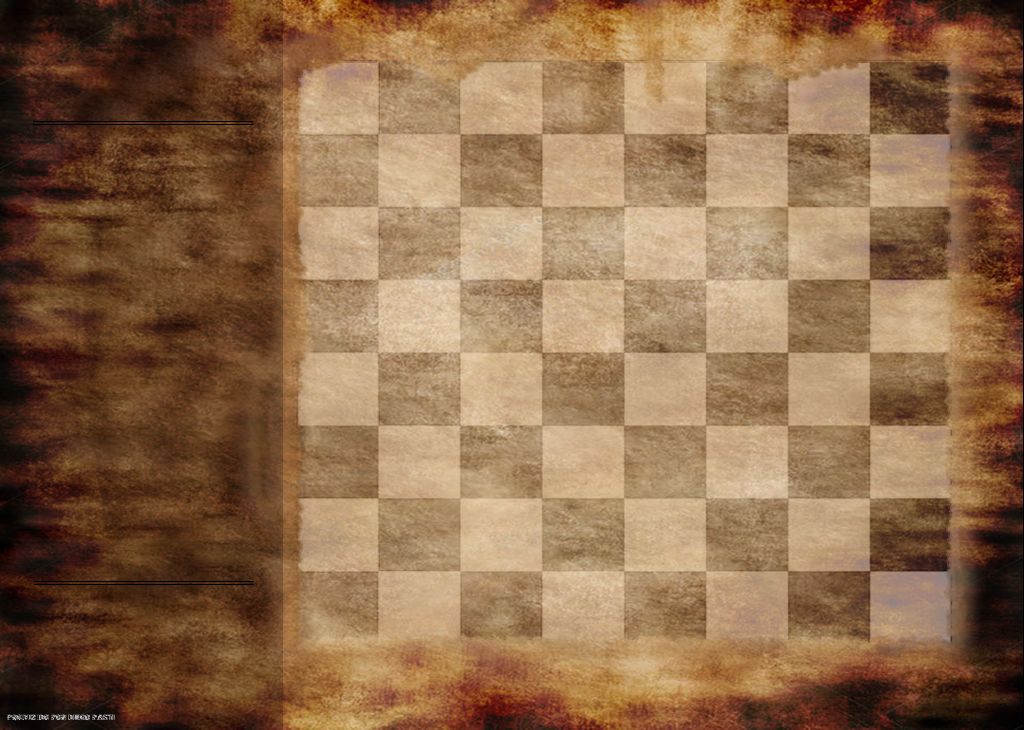
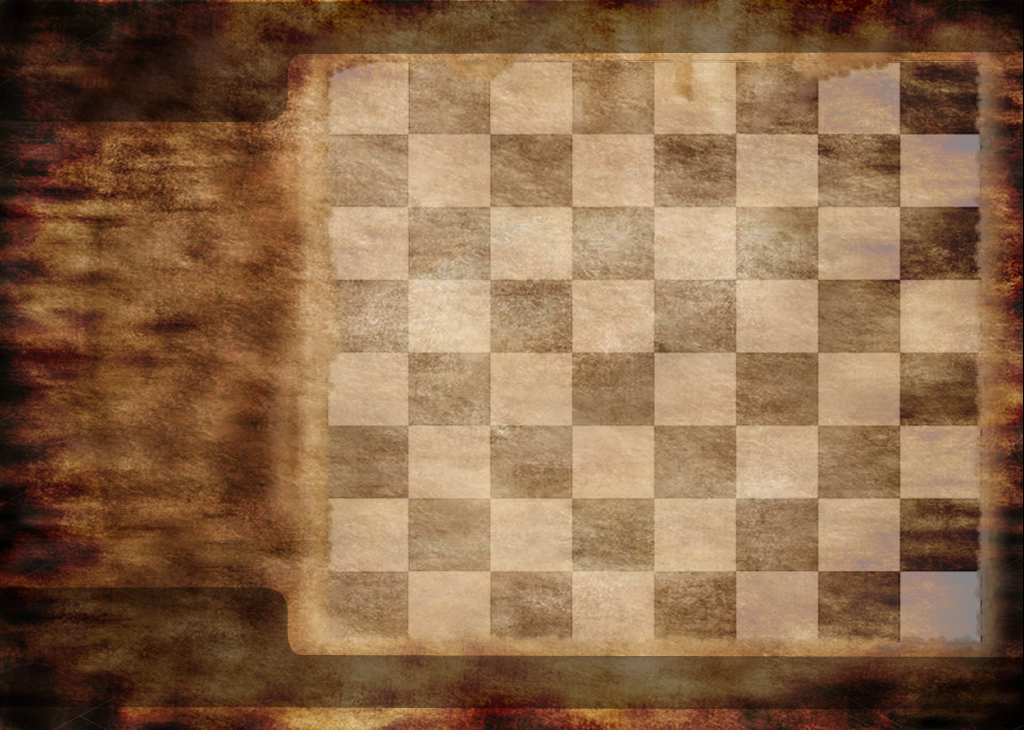
Conclui a parte do Chat, a estrutura do Menu e o painel do jogador.

diff --git a/Xadrez/src/br/ifes/poo/visao/interacao_humana/VisaoJogo.java b/Xadrez/src/br/ifes/poo/visao/interacao_humana/VisaoJogo.java
@@ -28,22 +28,15 @@ public class VisaoJogo extends JPanel{
 	
 	private JTextField textMensagem = null;
 	private JLabel labelMensagem = null;
-	private JLabel labelEsc = null;
-	private VisaoBotao botaoScrollUp=null;
-	private VisaoBotao botaoScrollDown=null;
-	
-	private VisaoBotao botaoVoltar = null;
-	private VisaoBotao botaoDesistir = null;
-	private VisaoBotao botaoEmpate = null;
 	
 	private VisaoTabuleiro visaoTabuleiro;
 	private VisaoChat visaoChat;
+	private VisaoMenuJogo menuJogo;
 	
 	public VisaoJogo(){	
 		KeyboardFocusManager manager = KeyboardFocusManager.getCurrentKeyboardFocusManager();
         manager.addKeyEventDispatcher(new ControleSinais());
 		this.construirTela();
-		this.adicionarComponentes();
 		System.out.println("INICIANDO A VISAO DO JOGO");
 	}
 	
@@ -51,8 +44,8 @@ public class VisaoJogo extends JPanel{
 	private void construirTela(){
 		this.setLayout(null);
 		this.construirBackground();
-		this.construirTabuleiro(296,62); // 70
-		this.construirMenu(680,20);
+		this.construirTabuleiro(326,62); // 70
+		this.construirMenu();
 		//this.construirPlacar();
 		this.construirChat();
 		this.construirCampoMensagem();
@@ -60,22 +53,12 @@ public class VisaoJogo extends JPanel{
 	}
 	
 	private void adicionarComponentes(){
-		this.add(visaoTabuleiro);
-		this.add(this.botaoEmpate);
-		this.add(this.botaoDesistir);
-		this.add(this.botaoVoltar);
-		this.add(this.visaoChat);
-		
-		this.add(this.textMensagem);
+		this.add(this.menuJogo);
+		this.add(visaoTabuleiro);		
+		this.add(this.visaoChat);		
+		this.add(this.textMensagem);		
 		this.add(this.labelMensagem);
-		this.add(this.labelEsc);
-		
-		this.add(this.botaoScrollUp);
-		this.add(this.botaoScrollDown);
-		
 		this.add(this.Background);
-		
-		
 		
 		
 	}
@@ -83,37 +66,26 @@ public class VisaoJogo extends JPanel{
 	private void construirCampoMensagem(){		
 		this.labelMensagem = new JLabel(new ImageIcon(getClass().getResource("/img/Componentes/enter.png")));
 		this.labelMensagem.setSize(280,25);
-		this.labelMensagem.setLocation(-216, 677);	
-		
-		this.labelEsc = new JLabel(new ImageIcon(getClass().getResource("/img/Componentes/esc.png")));
-		this.labelEsc.setSize(300,200);
-		this.labelEsc.setLocation(990, 255);		
+		this.labelMensagem.setLocation(-216, 555);	
 		
 		this.textMensagem = new JTextField();
-		this.textMensagem.setForeground(Color.white);
 		this.textMensagem.setSize(220, 25);
-		this.textMensagem.setLocation(4,677);
+		this.textMensagem.setLocation(4,555);
 		this.textMensagem.setBorder(null);
 		this.textMensagem.setOpaque(false);
 		
-		/*
-		this.botaoScrollDown = new VisaoBotao();
-		this.botaoScrollDown.setSize(40, 17);
-		this.botaoScrollDown.definirImagens("/img/Componentes/ArrowUp_Over.png", "/img/Componentes/ArrowUp_Pressed.png", "/img/Componentes/ArrowUp_Released.png");
-		this.botaoScrollDown.setLocation(130,565);
-		
-		this.botaoScrollUp = new VisaoBotao();
-		this.botaoScrollUp.setSize(40, 17);
-		this.botaoScrollUp.definirImagens("/img/Componentes/ArrowDown_Over.png", "/img/Componentes/ArrowDown_Pressed.png", "/img/Componentes/ArrowDown_Released.png");
-		this.botaoScrollUp.setLocation(130,120);
-		*/
 	}
 	
+	private void construirMenu(){
+		this.menuJogo = new VisaoMenuJogo();
+		this.menuJogo.setLocation(990, 255);	
+		this.menuJogo.setSize(300, 200);
+	}
 	
 	private void construirChat(){
 		this.visaoChat = new VisaoChat();
 		this.visaoChat.setLocation(7, 127);
-		this.visaoChat.setSize(276,445);
+		this.visaoChat.setSize(276,425);
 	}
 
 	private void construirBackground(){		
@@ -195,30 +167,10 @@ public class VisaoJogo extends JPanel{
 		this.visaoTabuleiro.inserirPeca(Peca, new Coordenada(linOrigem, colOrigem));		
 	}
 	
-	
-	private void construirMenu(int x, int y){
-		this.botaoEmpate = new VisaoBotao();
-		this.botaoEmpate.definirImagens("/img/Menu/Empate_Over.png", "/img/Menu/Empate_Pressed.png", "/img/Menu/Empate_Released.png");
-		this.botaoEmpate.setSize(100,30);
-		
-		this.botaoVoltar = new VisaoBotao();
-		this.botaoVoltar.definirImagens("/img/Menu/Voltar_Over.png", "/img/Menu/Voltar_Pressed.png", "/img/Menu/Voltar_Released.png");
-		this.botaoVoltar.setSize(90,30);
-		
-		this.botaoDesistir = new VisaoBotao();
-		this.botaoDesistir.definirImagens("/img/Menu/Desistir_Over.png", "/img/Menu/Desistir_Pressed.png", "/img/Menu/Desistir_Released.png");
-		this.botaoDesistir.setSize(100,30);
-		
-		
-		this.botaoEmpate.setLocation(x, y);
-		this.botaoDesistir.setLocation(x+100,y);
-		this.botaoVoltar.setLocation(x+200,y);		
-	}
-	
 	public VisaoBotao getBotao(int i) {
 		switch (i){
 			case 1:
-				return this.botaoVoltar;
+				return this.menuJogo.getBotao(1);
 			
 			default:
 				return null;
@@ -235,32 +187,32 @@ public class VisaoJogo extends JPanel{
             	
             	
             	if(e.getKeyCode()==27){
-            		if(labelEsc.getLocation().getX()==720.0){
-            			labelEsc.setLocation(990, 255);	
+            		if(menuJogo.getLocation().getX()==820.0){
+            			menuJogo.setLocation(990, 255);	
             		}
             		else{
-            			labelEsc.setLocation(720, 255);
+            			menuJogo.setLocation(820, 255);
             		}
             		
             	}
             	
             	
             	if(e.getKeyCode()==10){
-            		if(textMensagem.getLocation().getX()==0.0){
+            		if(labelMensagem.getLocation().getX()==0.0){
             			if(!textMensagem.getText().equals(" d i g i t e   s u a   m e n s a g e m   a q u i")){
             				// Enviar mensagem pro chat
                 			visaoChat.inserirMensagem(visaoTabuleiro.getJogadorAtivo().getNome(),textMensagem.getText());	
             			}
             			
-            			labelMensagem.setLocation(-436,677);
-            			textMensagem.setLocation(-500,677);
+            			labelMensagem.setLocation(-216,555);
+            			textMensagem.setLocation(-216,555);
             			textMensagem.setEnabled(false);
                 		textMensagem.setText("");
             		}
             		else{
             			textMensagem.setEnabled(true);
-            			textMensagem.setLocation(0,677);
-            			labelMensagem.setLocation(0,677);
+            			textMensagem.setLocation(4,555);
+            			labelMensagem.setLocation(0,555);
             			textMensagem.setText(" d i g i t e   s u a   m e n s a g e m   a q u i");
             			textMensagem.grabFocus();
             			textMensagem.selectAll();	

diff --git a/Xadrez/src/br/ifes/poo/visao/interacao_humana/VisaoMenuJogo.java b/Xadrez/src/br/ifes/poo/visao/interacao_humana/VisaoMenuJogo.java
@@ -1,0 +1,66 @@
+package br.ifes.poo.visao.interacao_humana;
+
+import javax.swing.ImageIcon;
+import javax.swing.JLabel;
+import javax.swing.JPanel;
+
+@SuppressWarnings("serial")
+public class VisaoMenuJogo extends JPanel {
+
+	private JLabel background = null;
+	private VisaoBotao botaoVoltar = null;
+	private VisaoBotao botaoDesistir = null;
+	private VisaoBotao botaoEmpate = null;
+	
+	public VisaoMenuJogo(){
+		this.setOpaque(false);
+		this.setLayout(null);
+		this.background = new JLabel(new ImageIcon(getClass().getResource("/img/Componentes/esc.png")));
+		this.background.setSize(300,200);	
+		this.background.setLocation(0,0);
+		this.construirMenu();
+		this.adicionarComponentes();
+		
+	}
+	
+	private void adicionarComponentes(){
+		this.add(this.botaoEmpate);
+		this.add(this.botaoDesistir);
+		this.add(this.botaoVoltar);
+		this.add(this.background);
+	}
+	
+	private void construirMenu(){
+		this.botaoEmpate = new VisaoBotao();
+		this.botaoEmpate.definirImagens("/img/Menu/Empate_Over.png", "/img/Menu/Empate_Pressed.png", "/img/Menu/Empate_Released.png");
+		this.botaoEmpate.setSize(100,30);
+		
+		this.botaoVoltar = new VisaoBotao();
+		this.botaoVoltar.definirImagens("/img/Menu/Voltar_Over.png", "/img/Menu/Voltar_Pressed.png", "/img/Menu/Voltar_Released.png");
+		this.botaoVoltar.setSize(90,30);
+		
+		this.botaoDesistir = new VisaoBotao();
+		this.botaoDesistir.definirImagens("/img/Menu/Desistir_Over.png", "/img/Menu/Desistir_Pressed.png", "/img/Menu/Desistir_Released.png");
+		this.botaoDesistir.setSize(100,30);
+				
+		this.botaoEmpate.setLocation(70, 40);
+		this.botaoDesistir.setLocation(67,90);
+		this.botaoVoltar.setLocation(74,140);		
+	}
+	
+	public VisaoBotao getBotao(int i) {
+		switch (i){
+			case 1:
+				return this.botaoVoltar;
+			
+			case 2:
+				return this.botaoEmpate;
+			
+			case 3:
+				return this.botaoDesistir;
+			
+			default:
+				return null;
+		}
+	}
+}

diff --git a/Xadrez/src/br/ifes/poo/visao/interacao_humana/VisaoChat.java b/Xadrez/src/br/ifes/poo/visao/interacao_humana/VisaoChat.java
@@ -29,12 +29,12 @@ public class VisaoChat extends JPanel {
 
 		this.textArea = new JTextArea(1,50);
 		this.textArea.setForeground(Color.white);
-		this.textArea.setSize(238,440);
+		this.textArea.setSize(238,400);
 		this.scrollPane = new JScrollPane(this.textArea);
-		this.scrollPane.setSize(238, 440);
+		this.scrollPane.setSize(238, 400);
 		
 		this.scrollPane.setHorizontalScrollBarPolicy(JScrollPane.HORIZONTAL_SCROLLBAR_NEVER);
-		this.scrollPane.setVerticalScrollBarPolicy(JScrollPane.VERTICAL_SCROLLBAR_ALWAYS);
+		this.scrollPane.setVerticalScrollBarPolicy(JScrollPane.VERTICAL_SCROLLBAR_NEVER);
 		this.add(scrollPane,BorderLayout.CENTER);
 	}
 	
@@ -48,6 +48,9 @@ public class VisaoChat extends JPanel {
 		
 		this.scrollPane.setBorder(null);
 		this.scrollPane.setOpaque(false);
+		this.scrollPane.getVerticalScrollBar().setOpaque(false);
+		this.scrollPane.getVerticalScrollBar().setBorder(null);
+						
 		this.scrollPane.getViewport().setBorder(null);
 		this.scrollPane.getViewport().setOpaque(false);
 }
@@ -69,13 +72,4 @@ public class VisaoChat extends JPanel {
 		
 		this.controleChat.inserirMensagem(user, msg);
 	}
-	
-	public void esconderChat(){
-		this.setVisible(false);
-	}
-	
-	public void exibirChat(){
-		this.setVisible(true);
-	}
-	
 }
